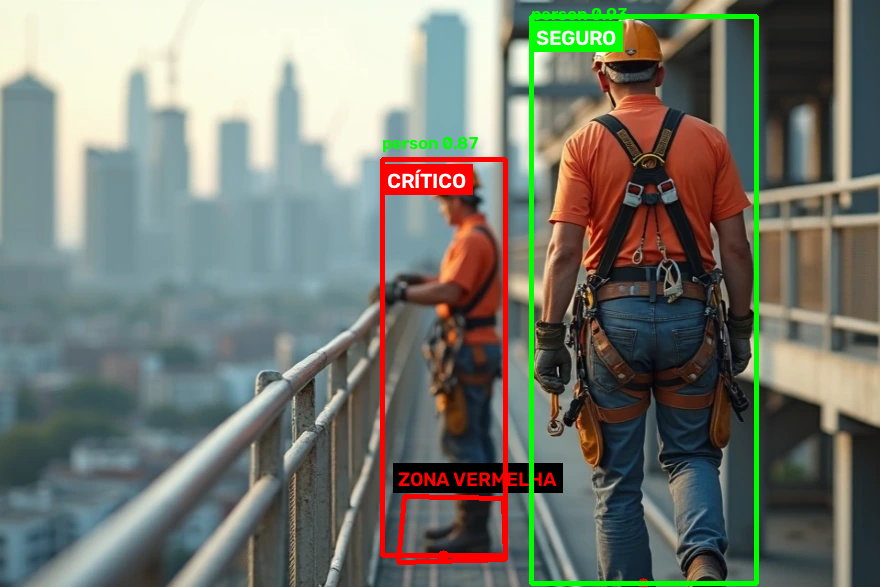
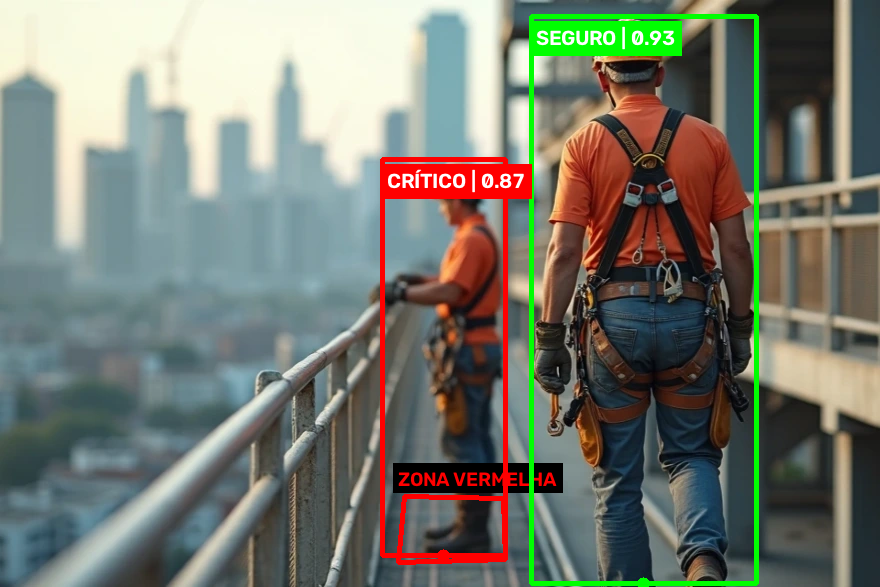
Ajuste visual da classificação de risco

diff --git a/scripts/detect_person.py b/scripts/detect_person.py
@@ -11,7 +11,7 @@ CONFIG_PATH = ROOT / "config" / "zones.json"
 
 def main() -> None:
     parser = argparse.ArgumentParser(
-        description="Detecta pessoas em uma imagem usando YOLO."
+        description="Detecta pessoas e classifica risco por zona."
     )
 
     parser.add_argument(
@@ -68,16 +68,9 @@ def main() -> None:
             f"risco={risk}"
         )
 
-    detector.annotate(
-        args.image,
-        detections,
-        args.output,
-    )
-
-    annotated = cv2.imread(str(args.output))
-
-    if annotated is None:
-        raise ValueError(f"Não foi possível abrir a imagem anotada: {args.output}")
+    # Parte diretamente da imagem original.
+    # Assim evitamos o rótulo antigo "person 0.xx".
+    annotated = image.copy()
 
     # -------------------------------------------------
     # Desenha a zona vermelha
@@ -119,6 +112,7 @@ def main() -> None:
     )
 
     zone_label_x = zone_x
+
     zone_label_y = max(
         zone_text_height + 10,
         zone_y - 10,
@@ -153,11 +147,13 @@ def main() -> None:
     )
 
     # -------------------------------------------------
-    # Desenha o risco de cada pessoa
+    # Desenha cada pessoa com um único rótulo
     # -------------------------------------------------
 
     for detection, risk in risk_results:
         x1, y1, x2, y2 = detection.bbox
+
+        foot_x, foot_y = detection.foot_point
 
         if risk == "CRÍTICO":
             color = (0, 0, 255)
@@ -172,9 +168,20 @@ def main() -> None:
             3,
         )
 
-        risk_label = risk
+        # Mostra o ponto usado para decidir
+        # se a pessoa está dentro da zona.
+        cv2.circle(
+            annotated,
+            (foot_x, foot_y),
+            6,
+            color,
+            -1,
+        )
+
+        risk_label = f"{risk} | {detection.confidence:.2f}"
 
         risk_font = cv2.FONT_HERSHEY_SIMPLEX
+
         risk_font_scale = 0.7
         risk_thickness = 2
 
@@ -192,6 +199,10 @@ def main() -> None:
         )
 
         risk_label_x = x1
+
+        # Mantemos o texto dentro da caixa.
+        # Isso evita cortar o rótulo de pessoas
+        # próximas ao topo da imagem.
         risk_label_y = y1 + risk_text_height + 10
 
         cv2.rectangle(
@@ -225,6 +236,11 @@ def main() -> None:
     # -------------------------------------------------
     # Salva resultado final
     # -------------------------------------------------
+
+    args.output.parent.mkdir(
+        parents=True,
+        exist_ok=True,
+    )
 
     if not cv2.imwrite(
         str(args.output),
